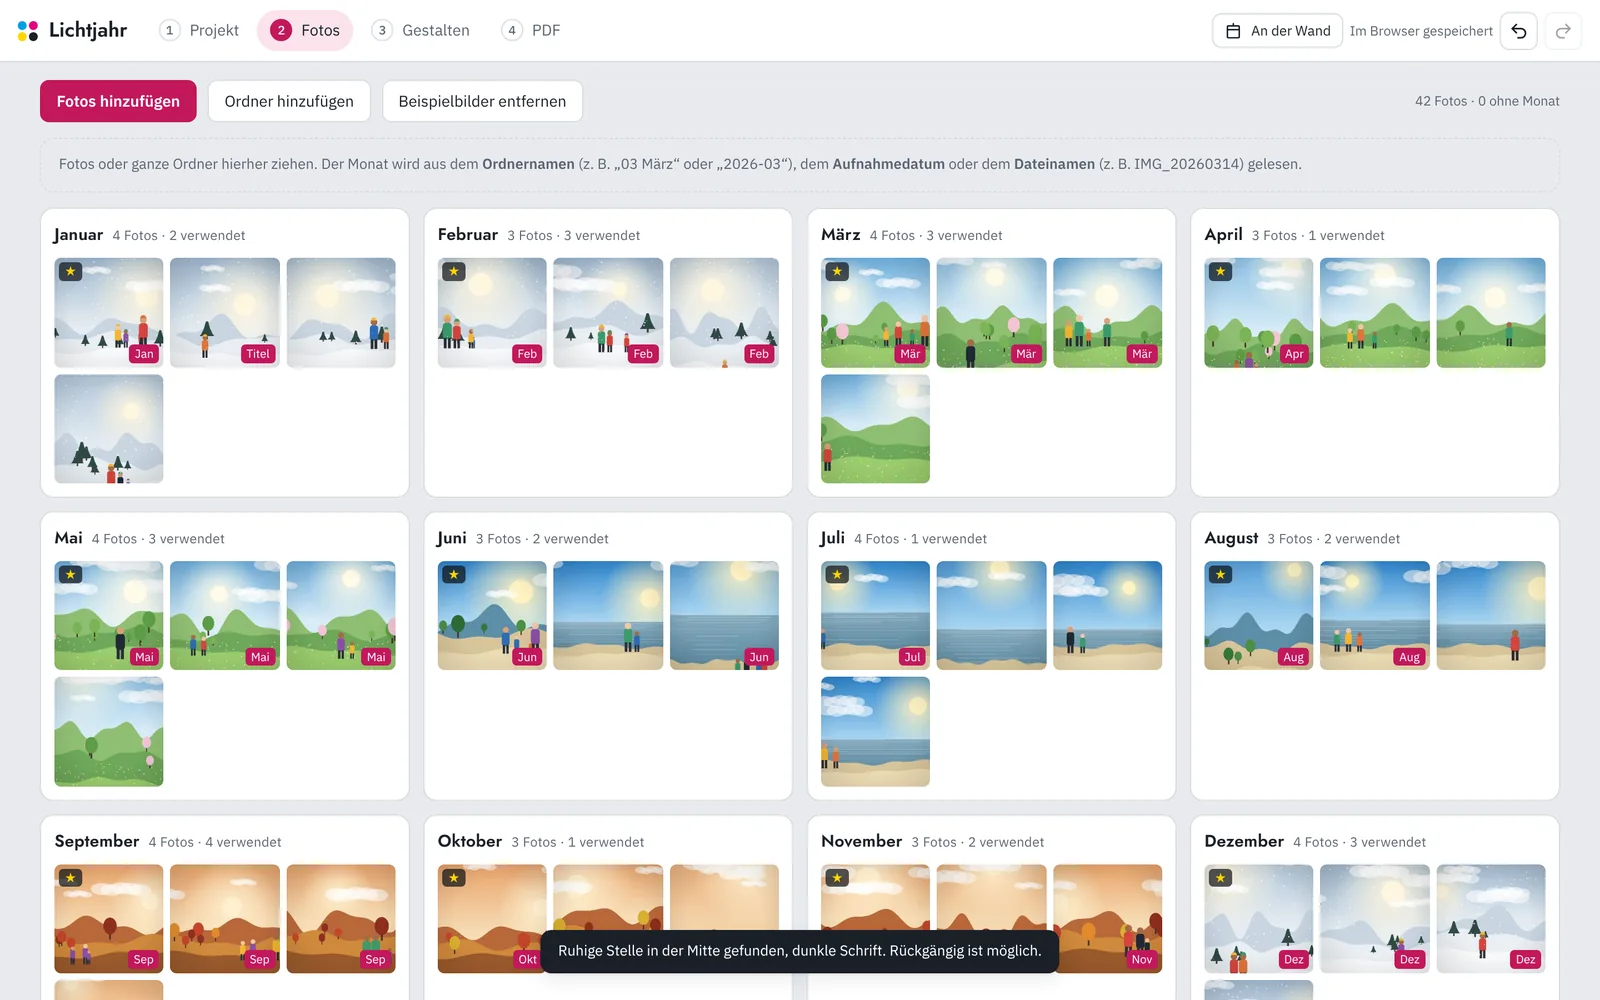
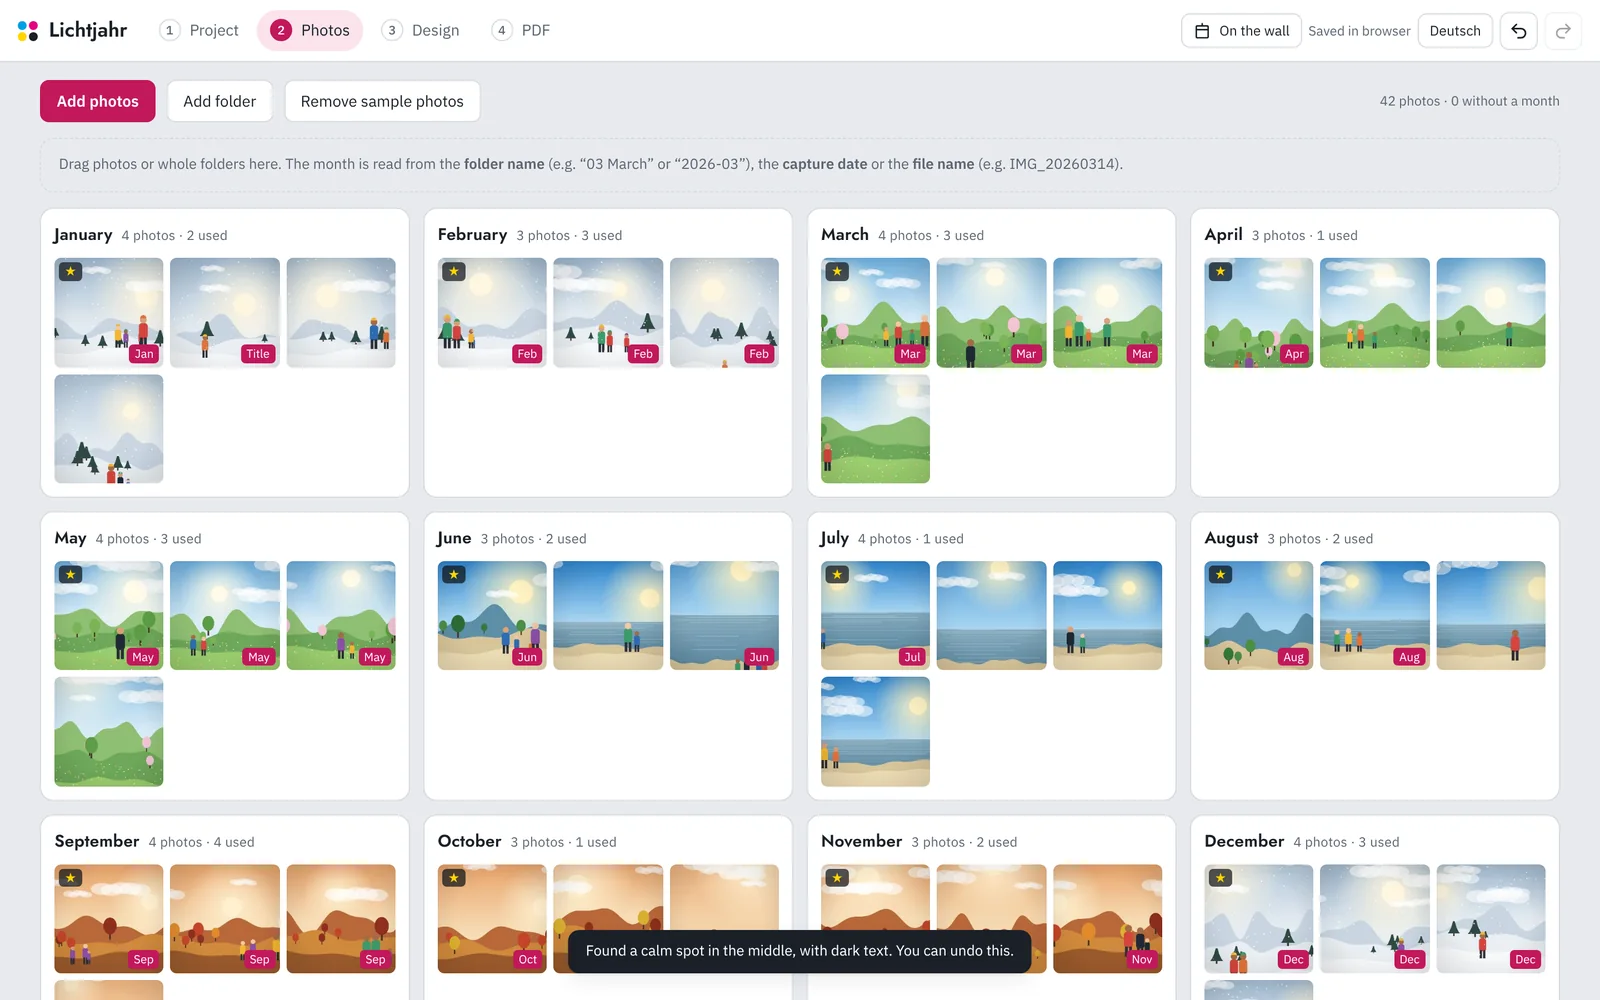
Englisch als Standardsprache, Deutsch umschaltbar (Oberfläche, Dienst, Doku)
- Oberfläche: alle Texte über _t() (deutsche Quelltexte als Schlüssel, englische Wörterbücher
  in prototyp/src/i18n/en_*.js); Sprache automatisch aus dem Browser, umschaltbar in der
  Kopfleiste, im Projektwähler und in der Projektansicht
- Eigene Sprache für den gedruckten Kalender (Monate, Wochentage, Feiertage, Register, PDF-Titel
  und Dateiname); neue Projekte in der Sprache der Oberfläche, bestehende bleiben deutsch
- Dienst: Meldungen und Prüfbericht nach Accept-Language, Ordnernamen je Projektsprache
- tools/i18n-check.cjs findet fehlende Übersetzungen; tools/screenshots*.cjs erzeugen die
  README-Bilder in beiden Sprachen
- README, Dienst-README und CONTRIBUTING englisch, deutsche READMEs daneben

Claude-Session: https://claude.ai/code/session_019n7nwYECAPiHJDbBoTsf1A

diff --git a/prototyp/dist/index.html b/prototyp/dist/index.html
@@ -744,7 +744,7 @@ Object.assign(EN, {
   'Leere Seite': 'Blank page',
   // Vorgaben neuer Projekte
   'Die Fotos des Jahres': 'The year in photos',
-  'Familienkalender': 'Family calendar',
+  'Familienkalender': 'Family Calendar',
   // Seitennamen
   'Bildregister': 'Photo index',
   'Bildregister {n}': 'Photo index {n}',
@@ -844,7 +844,7 @@ Object.assign(EN, {
   '{d}. {month}: {name}': '{month} {d}: {name}',
   '{d}. {month}: {name} (wird {age})': '{month} {d}: {name} (turns {age})',
   'Geburtstage': 'Birthdays',
-  'Familienkalender {year}': 'Family calendar {year}',
+  'Familienkalender {year}': 'Family Calendar {year}',
   '{title} (Fortsetzung)': '{title} (continued)',
   'Schulferien: {name} ({url}), {license}, Stand {date}, ohne Gewähr.': 'School holidays: {name} ({url}), {license}, as of {date}, no guarantee.',
   'Noch kein Text. Rechts unter „Register“ schreiben.': 'No text yet. Write it on the right under “Photo index”.',

diff --git a/prototyp/dist/kalenderwerkstatt.html b/prototyp/dist/kalenderwerkstatt.html
@@ -735,7 +735,7 @@ Object.assign(EN, {
   'Leere Seite': 'Blank page',
   // Vorgaben neuer Projekte
   'Die Fotos des Jahres': 'The year in photos',
-  'Familienkalender': 'Family calendar',
+  'Familienkalender': 'Family Calendar',
   // Seitennamen
   'Bildregister': 'Photo index',
   'Bildregister {n}': 'Photo index {n}',
@@ -835,7 +835,7 @@ Object.assign(EN, {
   '{d}. {month}: {name}': '{month} {d}: {name}',
   '{d}. {month}: {name} (wird {age})': '{month} {d}: {name} (turns {age})',
   'Geburtstage': 'Birthdays',
-  'Familienkalender {year}': 'Family calendar {year}',
+  'Familienkalender {year}': 'Family Calendar {year}',
   '{title} (Fortsetzung)': '{title} (continued)',
   'Schulferien: {name} ({url}), {license}, Stand {date}, ohne Gewähr.': 'School holidays: {name} ({url}), {license}, as of {date}, no guarantee.',
   'Noch kein Text. Rechts unter „Register“ schreiben.': 'No text yet. Write it on the right under “Photo index”.',

diff --git a/prototyp/src/i18n/en_render.js b/prototyp/src/i18n/en_render.js
@@ -105,7 +105,7 @@ Object.assign(EN, {
   'Leere Seite': 'Blank page',
   // Vorgaben neuer Projekte
   'Die Fotos des Jahres': 'The year in photos',
-  'Familienkalender': 'Family calendar',
+  'Familienkalender': 'Family Calendar',
   // Seitennamen
   'Bildregister': 'Photo index',
   'Bildregister {n}': 'Photo index {n}',
@@ -205,7 +205,7 @@ Object.assign(EN, {
   '{d}. {month}: {name}': '{month} {d}: {name}',
   '{d}. {month}: {name} (wird {age})': '{month} {d}: {name} (turns {age})',
   'Geburtstage': 'Birthdays',
-  'Familienkalender {year}': 'Family calendar {year}',
+  'Familienkalender {year}': 'Family Calendar {year}',
   '{title} (Fortsetzung)': '{title} (continued)',
   'Schulferien: {name} ({url}), {license}, Stand {date}, ohne Gewähr.': 'School holidays: {name} ({url}), {license}, as of {date}, no guarantee.',
   'Noch kein Text. Rechts unter „Register“ schreiben.': 'No text yet. Write it on the right under “Photo index”.',

diff --git a/backend/tests/test_api.py b/backend/tests/test_api.py
@@ -127,7 +127,7 @@ def test_serve_with_path_registers_project(tmp_path, monkeypatch, capsys):
 def test_languages_messages_and_folder_names(tmp_path):
     c = client(tmp_path)
     en = c.post("/api/projects", json={"path": str(tmp_path / "Calendar"), "calendarYear": 2027})
-    assert en.status_code == 200 and en.json()["title"] == "Family calendar" and en.json()["language"] == "en"
+    assert en.status_code == 200 and en.json()["title"] == "Family Calendar" and en.json()["language"] == "en"
     assert (tmp_path / "Calendar" / "Photos" / "03 March").is_dir() and (tmp_path / "Calendar" / "Photos" / "No month").is_dir()
     assert en.json()["storage"]["folders"]["months"][11] == "12 December"
     de = c.post("/api/projects", json={"path": str(tmp_path / "Kalender")}, headers={"Accept-Language": "de-DE,de;q=0.9"})

diff --git a/backend/lichtjahr/cli.py b/backend/lichtjahr/cli.py
@@ -119,7 +119,7 @@ def main(argv: list[str] | None = None) -> None:
     i.add_argument("path")
     i.add_argument("--year", type=int, default=date.today().year + 1, help="Kalenderjahr (Standard: nächstes Jahr)")
     i.add_argument("--source-year", type=int, help="Jahr, aus dem die Fotos stammen (Standard: Kalenderjahr − 1)")
-    i.add_argument("--title", help="Titel (Standard: „Family calendar“ bzw. „Familienkalender“)")
+    i.add_argument("--title", help="Titel (Standard: „Family Calendar“ bzw. „Familienkalender“)")
     i.add_argument("--language", choices=["en", "de"], help="Sprache der Ordnernamen (Standard: Systemsprache)")
     i.set_defaults(func=cmd_init)
 

diff --git a/backend/lichtjahr/i18n.py b/backend/lichtjahr/i18n.py
@@ -138,5 +138,5 @@ EN = {
     "API-Dokumentation: {url}": "API documentation: {url}",
     "Projekt „{title}“ für {year} angelegt in {root}": "Project “{title}” for {year} created in {root}",
     "Fotos in die Monatsordner unter {photos}/ legen oder später in der App hinzufügen.": "Put photos into the month folders under {photos}/ or add them later in the app.",
-    "Familienkalender": "Family calendar",
+    "Familienkalender": "Family Calendar",
 }

diff --git a/README.md b/README.md
@@ -68,7 +68,7 @@ of the picture. A starting point in seconds instead of hours.
 
 16 templates to start with, then move frames, scale them by their corners, overlap, rotate and duplicate
 them – snapping to edges, the center and neighboring frames. Double-click to adjust the crop: slide the
-photo under the frame, zoom, "Fill" or "Fit".
+photo under the frame, zoom, "Fill" or "Show whole".
 
 </td>
 <td><img src="docs/images/rahmen.webp" alt="Selected frame with handles and toolbar"></td>
@@ -78,7 +78,7 @@ photo under the frame, zoom, "Fill" or "Fit".
 
 ### The calendar grid finds its own spot
 
-"Find spot automatically" analyzes the photo: where is there little detail, where is the brightness even?
+"Find a spot automatically" analyzes the photo: where is there little detail, where is the brightness even?
 That is where the calendar grid goes, in a fitting shape (strip, column, grid), with a legible text color
 and a backdrop if needed – for one page or all months at once.
 
@@ -248,7 +248,7 @@ GitHub Pages), it works in the browser only, as before.
 | [`prototyp/`](prototyp) | The user interface: vanilla JavaScript with no framework and no build dependencies. Pages are described in millimeters and drawn from that as SVG (editor) and as PDF (export). Its own CMYK JPEG encoder and PDF writer. |
 | [`backend/`](backend) | The local service: Python, FastAPI, Pillow. Storage adapter with atomic operations, project lock with lease, manifest with revision and ETag, journal for file moves. |
 | [`docs/`](docs) | UX review and the images for this README. |
-| [`tools/`](tools) | `screenshots.cjs` creates the images in `docs/images/`, `e2e-dienst.cjs` tests the app and the service together in the browser, `i18n-check.cjs` finds missing English translations. |
+| [`tools/`](tools) | `screenshots.cjs` and `screenshots-dienst.cjs` create the images in `docs/images/` (English) and `docs/images/de/` (German), `e2e-dienst.cjs` tests the app and the service together in the browser, `i18n-check.cjs` finds missing English translations. |
 
 <details>
 <summary>Prototype files</summary>
@@ -265,7 +265,7 @@ GitHub Pages), it works in the browser only, as before.
 | `src/a6_editor.js` | Dragging, zooming and moving in the editor |
 | `src/a7_export.js` | PDF export and startup |
 | `src/a8_wall.js` | "On the wall" view |
-| `src/a9_place.js` | Image analysis for "Find spot automatically" |
+| `src/a9_place.js` | Image analysis for "Find a spot automatically" |
 | `src/b1_service.js` | Connection to the local service: project selection, lock, saving, sync, upload |
 | `src/b2_print.js` | Print PDF via the local service: print profile, export, check report |
 | `src/jpeg.js`, `src/pdf.js` | CMYK JPEG encoder and minimal PDF writer |

diff --git a/backend/README.md b/backend/README.md
@@ -36,7 +36,7 @@ lichtjahr serve ~/Pictures/Calendar-2027              # start the service and op
 ```
 
 After that, just put photos into the month folders – bit by bit and with other programs, too. The app
-syncs automatically when it opens and whenever you return to its window ("Sync folder" also works by
+syncs automatically when it opens and whenever you return to its window ("Sync folders" also works by
 hand): new files are added, moved ones are recognized, missing ones are reported.
 
 ### What happens in the app
@@ -48,8 +48,8 @@ hand): new files are added, moved ones are recognized, missing ones are reported
 | Copy for an additional month | A separate file in the second month folder |
 | Remove a photo | Only set aside, the file stays where it is; you can bring it back at any time |
 | Design, captions, favorites | `lichtjahr.json`, saved automatically |
-| Create Print PDF | `Export/Family-calendar-2027-Print.pdf` (PDF/X-1a, with check report) |
-| Create Draft PDF | `Export/Family-calendar-2027-Draft.pdf` |
+| Create Print PDF | `Export/Family-Calendar-2027-Print.pdf` (PDF/X-1a, with check report) |
+| Create Draft PDF | `Export/Family-Calendar-2027-Draft.pdf` |
 
 ### From your phone on the home network
 

diff --git a/README.de.md b/README.de.md
@@ -249,7 +249,7 @@ arbeitet sie wie bisher nur im Browser.
 | [`prototyp/`](prototyp) | Die Oberfläche: Vanilla JavaScript ohne Framework und ohne Build-Abhängigkeiten. Seiten werden in Millimetern beschrieben und daraus als SVG (Editor) und als PDF (Export) gezeichnet. Eigener CMYK-JPEG-Encoder und PDF-Writer. |
 | [`backend/`](backend) | Der lokale Dienst: Python, FastAPI, Pillow. Speicher-Adapter mit atomaren Operationen, Projektsperre mit Lease, Manifest mit Revision und ETag, Journal für Dateiverschiebungen. |
 | [`docs/`](docs) | UX-Prüfung und die Bilder für dieses README. |
-| [`tools/`](tools) | `screenshots.cjs` erzeugt die Bilder in `docs/images/`, `e2e-dienst.cjs` testet Oberfläche und Dienst zusammen im Browser, `i18n-check.cjs` findet fehlende englische Übersetzungen. |
+| [`tools/`](tools) | `screenshots.cjs` und `screenshots-dienst.cjs` erzeugen die Bilder in `docs/images/` (Englisch) und `docs/images/de/` (Deutsch), `e2e-dienst.cjs` testet Oberfläche und Dienst zusammen im Browser, `i18n-check.cjs` findet fehlende englische Übersetzungen. |
 
 <details>
 <summary>Dateien des Prototyps</summary>

diff --git a/CONTRIBUTING.md b/CONTRIBUTING.md
@@ -83,8 +83,9 @@ pytest
   (e.g. a browser and a PDF viewer).
 - For changes to the service or its connection (`prototyp/src/b1_service.js`): `node tools/e2e-dienst.cjs`
   starts the service with test photos and runs through the most important workflows in the browser.
-- If the look has changed: `node tools/screenshots.cjs` regenerates the README images
-  (both scripts need Playwright with Chromium and Python with Pillow; `i18n-check.cjs` needs Playwright).
+- If the look has changed: `node tools/screenshots.cjs` (browser-only views) and `node tools/screenshots-dienst.cjs`
+  (views that need the local service) regenerate the README images in English and German
+  (these scripts need Playwright with Chromium and Python with Pillow; `i18n-check.cjs` needs Playwright).
 
 CI on GitHub runs the tests and the build automatically for every pull request.
 

diff --git a/CLAUDE.md b/CLAUDE.md
@@ -34,7 +34,8 @@
   „zertifiziert“ bezeichnen: geprüft wird mit dem eigenen Preflight. Keine ECI- oder Adobe-Profile ins Repo.
 - Vor einem Push im Browser testen (Playwright mit Chromium ist in der Cloud-Umgebung vorhanden),
   Desktop und Handy-Größe, und das exportierte PDF rendern.
-- Wenn sich das Aussehen deutlich ändert: `node tools/screenshots.cjs` erneuert die Bilder im README.
+- Wenn sich das Aussehen deutlich ändert: `node tools/screenshots.cjs` und `node tools/screenshots-dienst.cjs`
+  erneuern die Bilder im README (Englisch und Deutsch).
 - Anbindung an den Dienst in `src/b1_service.js` (nur aktiv, wenn die Seite vom Dienst kommt). Nach Änderungen
   an Dienst oder Anbindung `node tools/e2e-dienst.cjs` laufen lassen (startet den Dienst mit Testfotos).
 
